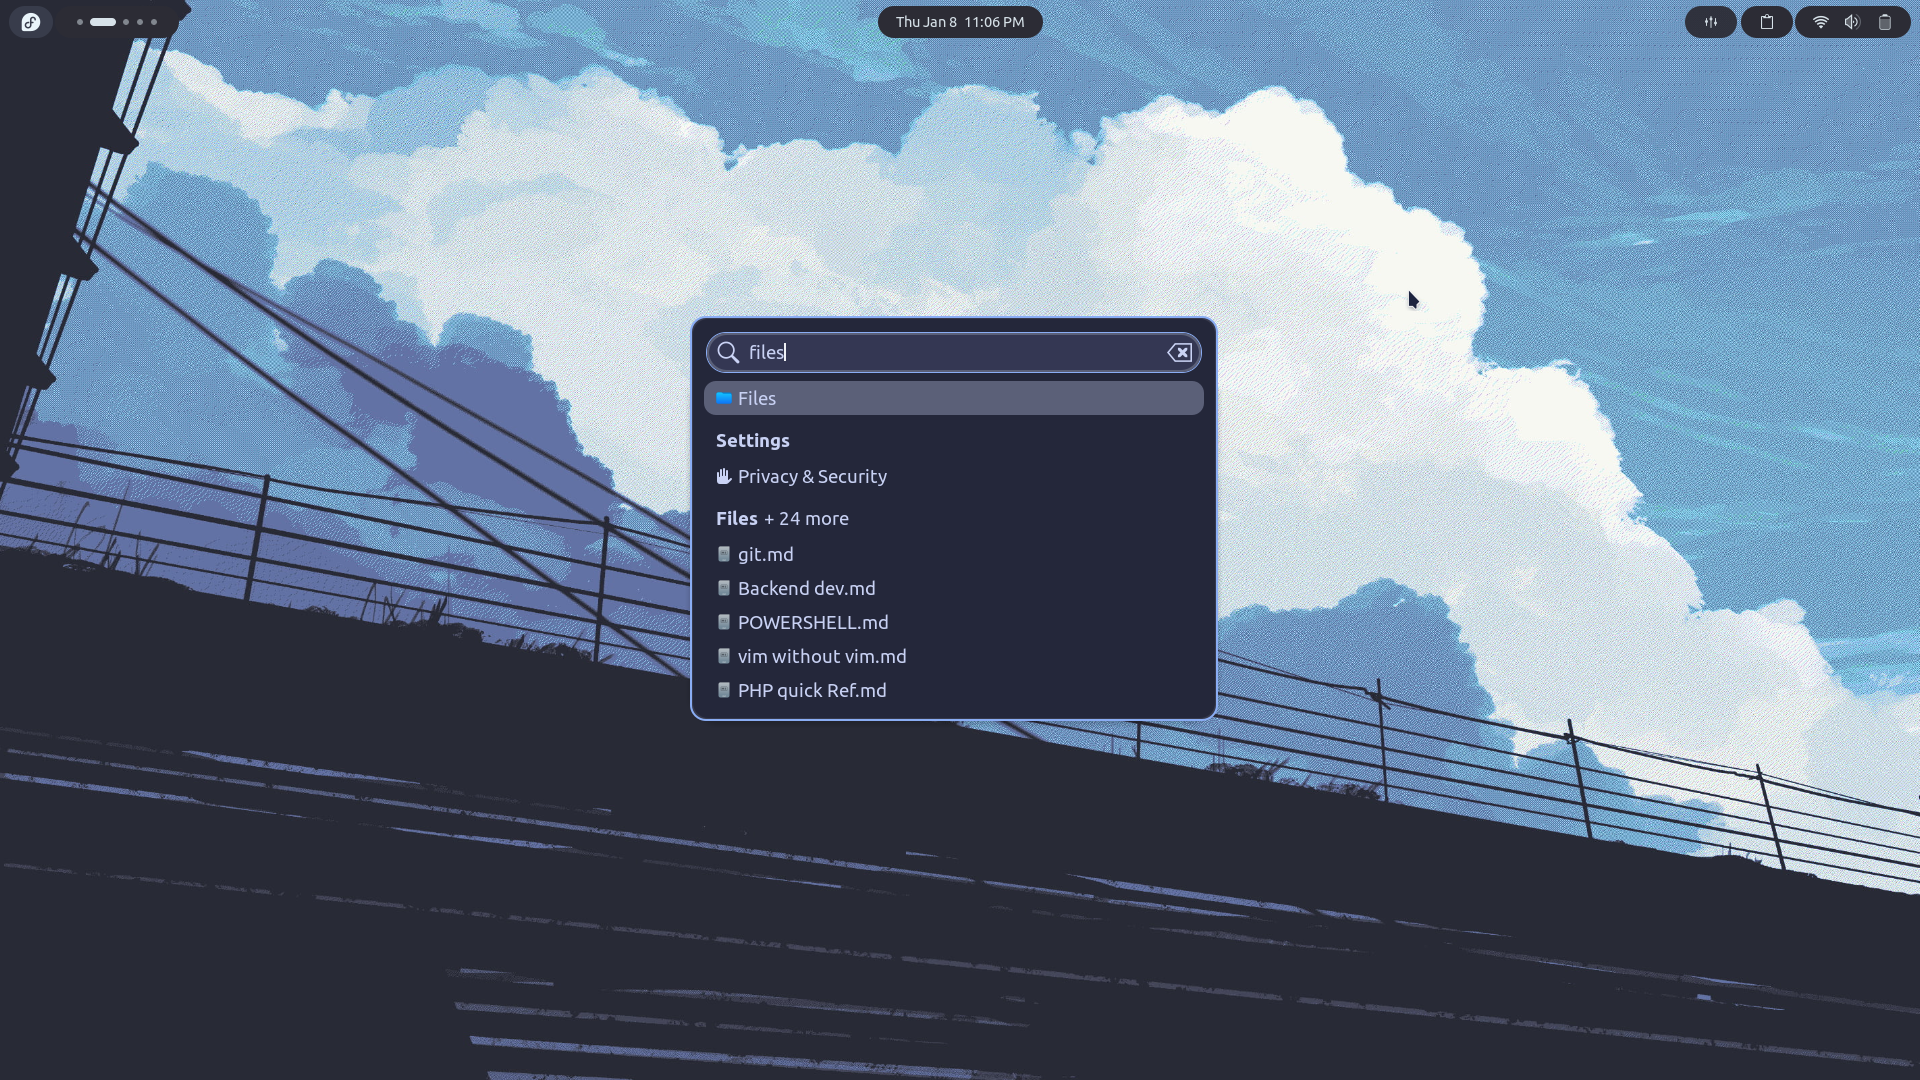
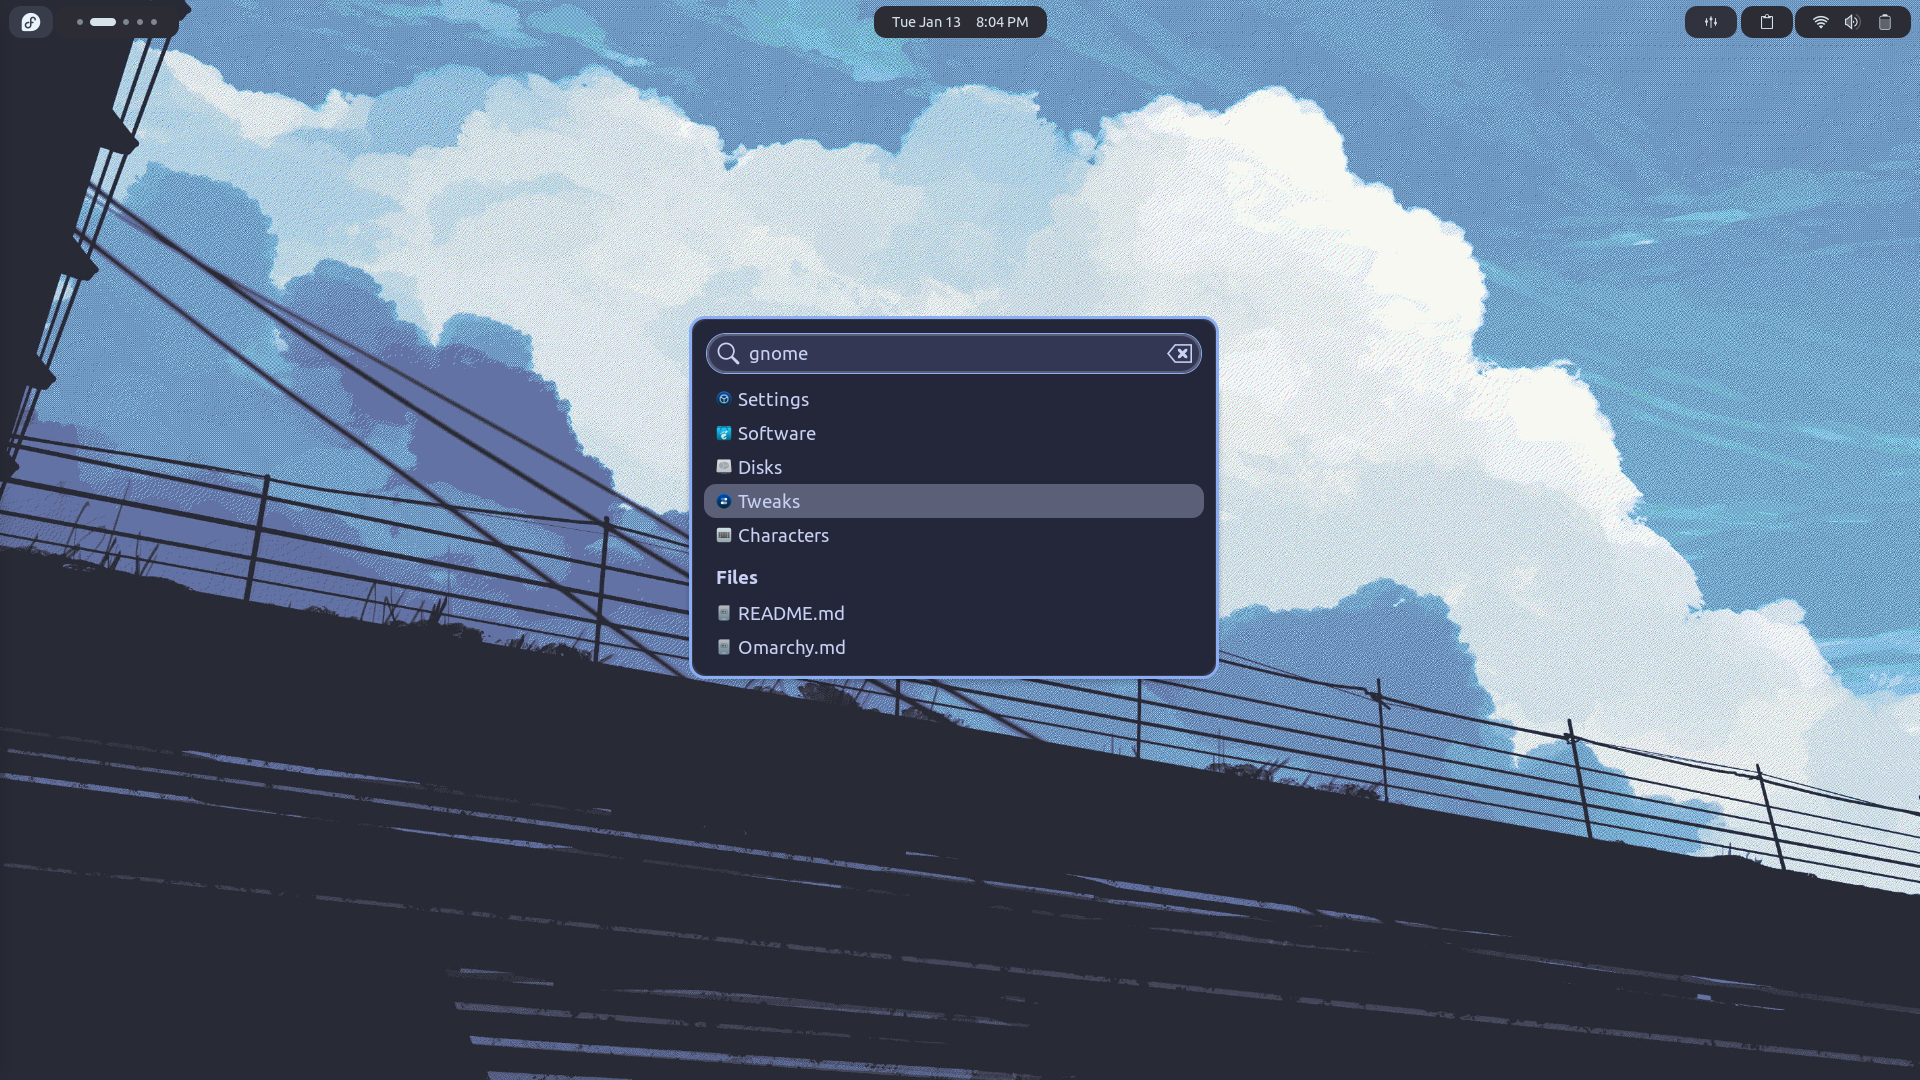
revamp rice

Changed region(s): [[0.3438, 0.3056, 0.6562, 0.6722], [0.4688, 0.0, 0.5625, 0.0306]]

diff --git a/README.md b/README.md
@@ -1,9 +1,9 @@
 # 🐧 Fedora Workstation
 
-![Fedora Workstation](./.dotfiles-assets/fedora-home.png)
+![Fedora Workstation](./.dotfiles-assets/fedora-workstation.png)
+![Fedora Workstation](./.dotfiles-assets/fedora-files.png)
 ![Fedora Workstation](./.dotfiles-assets/fedora-launcher.png)
-![Fedora Workstation](./.dotfiles-assets/fedora-gtk1.png)
-![Fedora Workstation](./.dotfiles-assets/fedora-vscode.png)
+![Fedora Workstation](./.dotfiles-assets/fedora-code.png)
 
 
 ---
